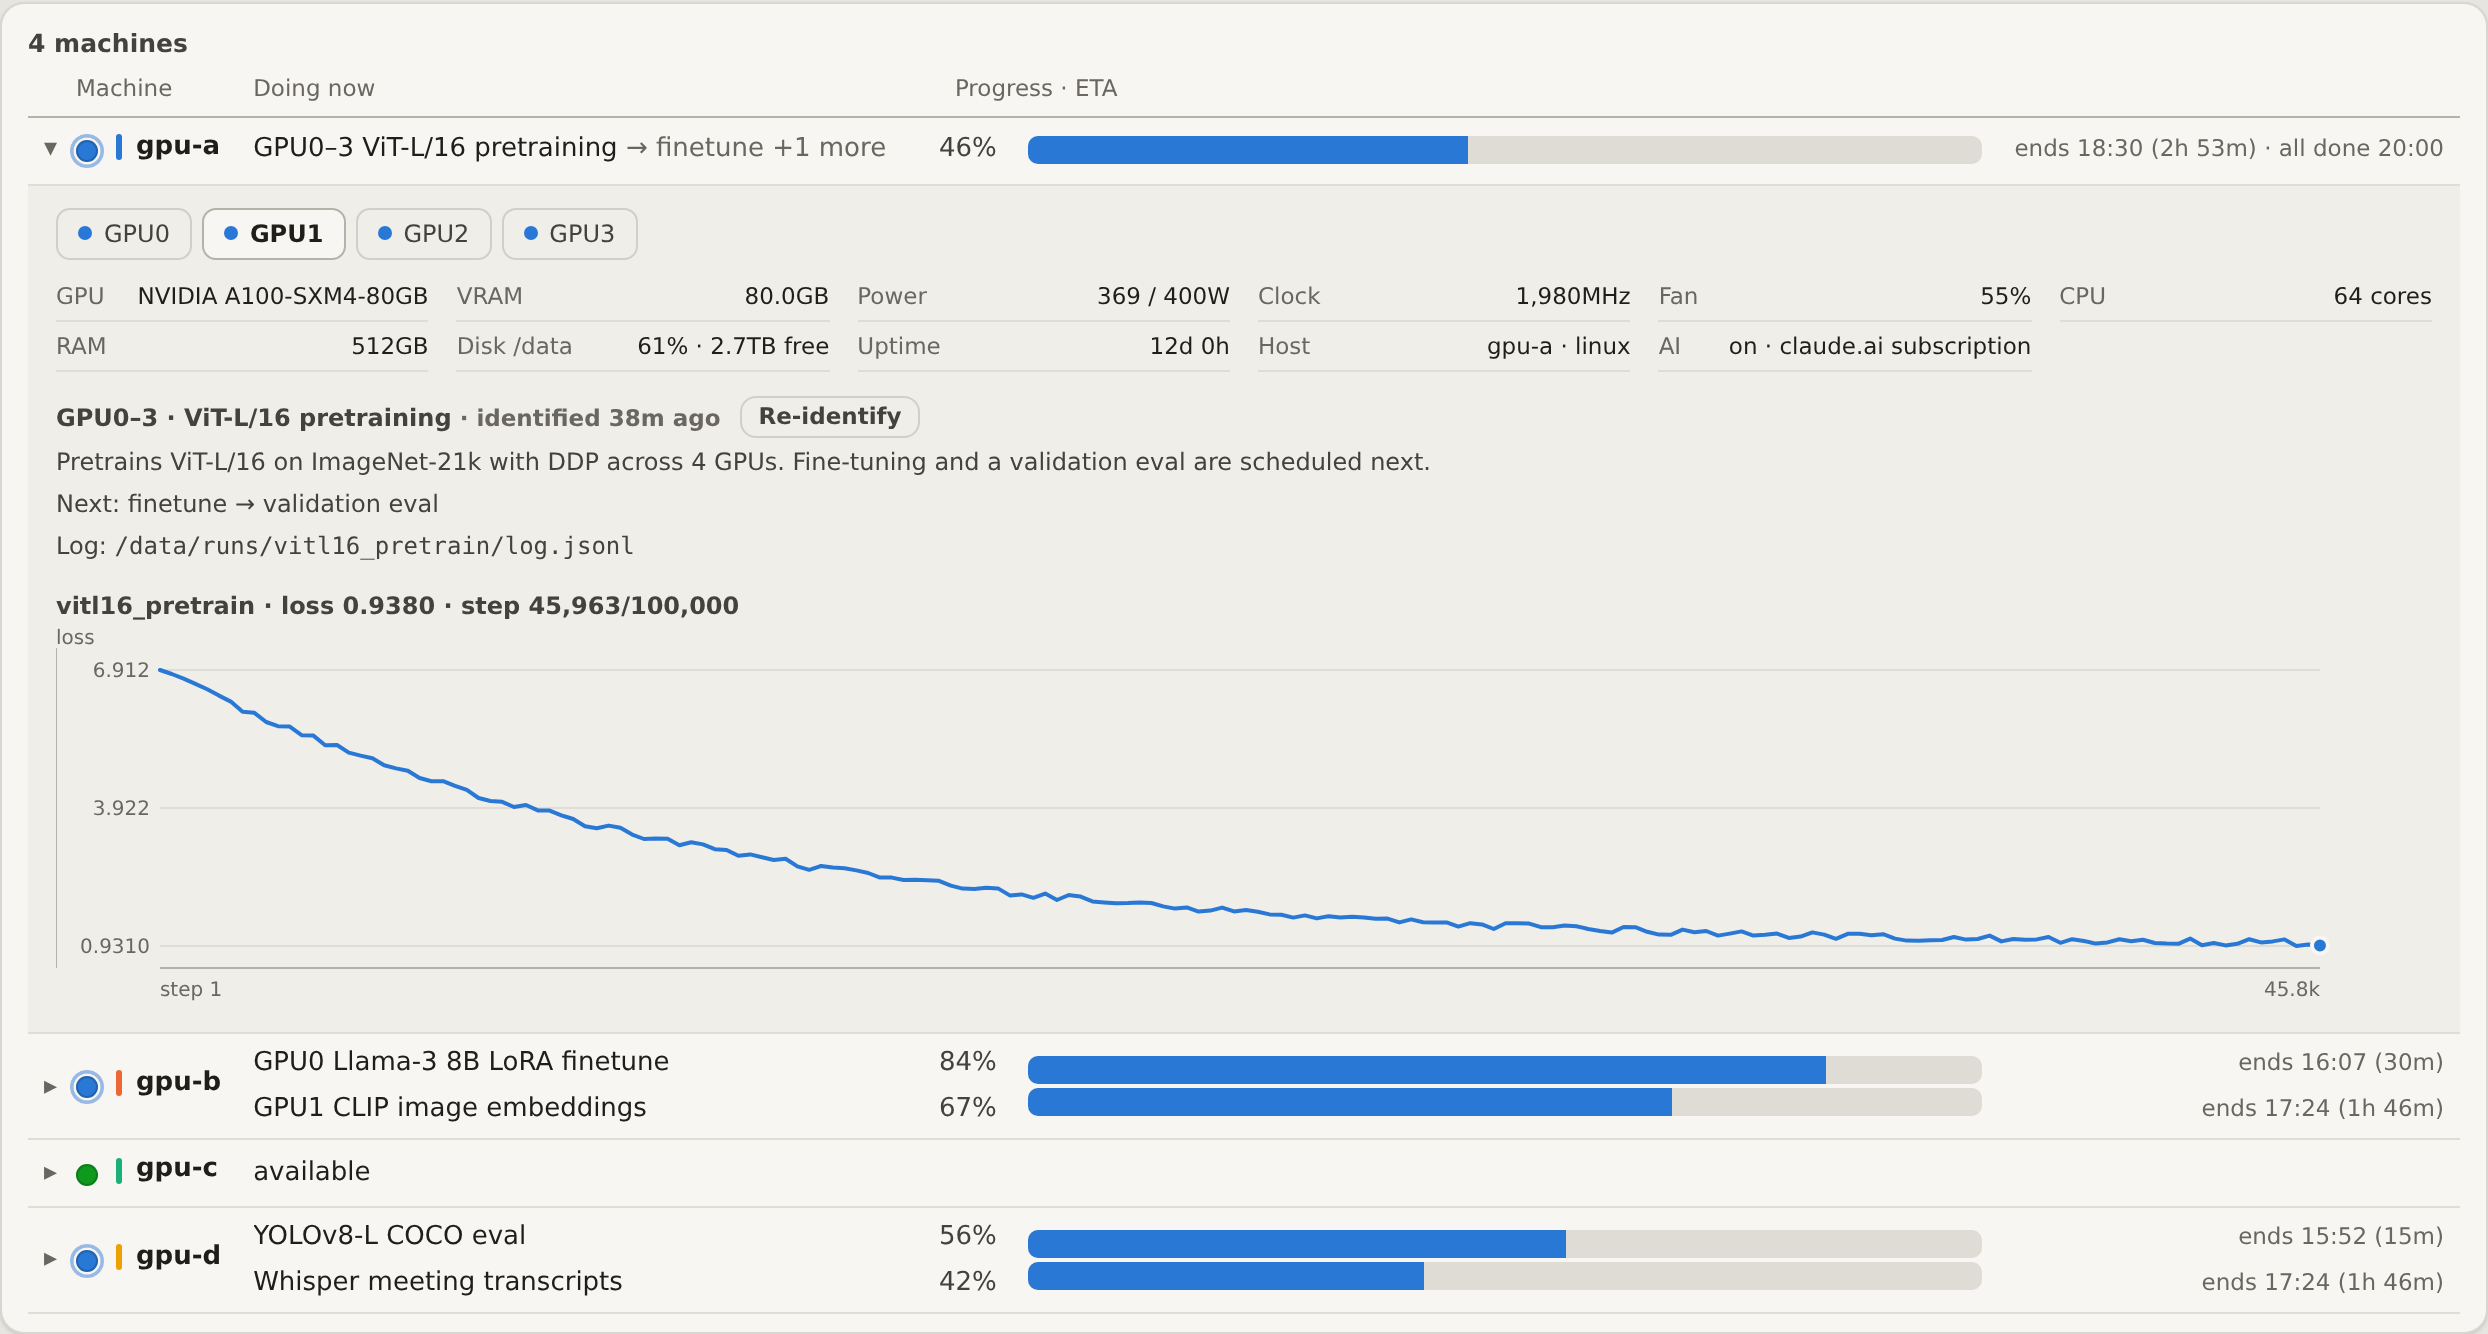
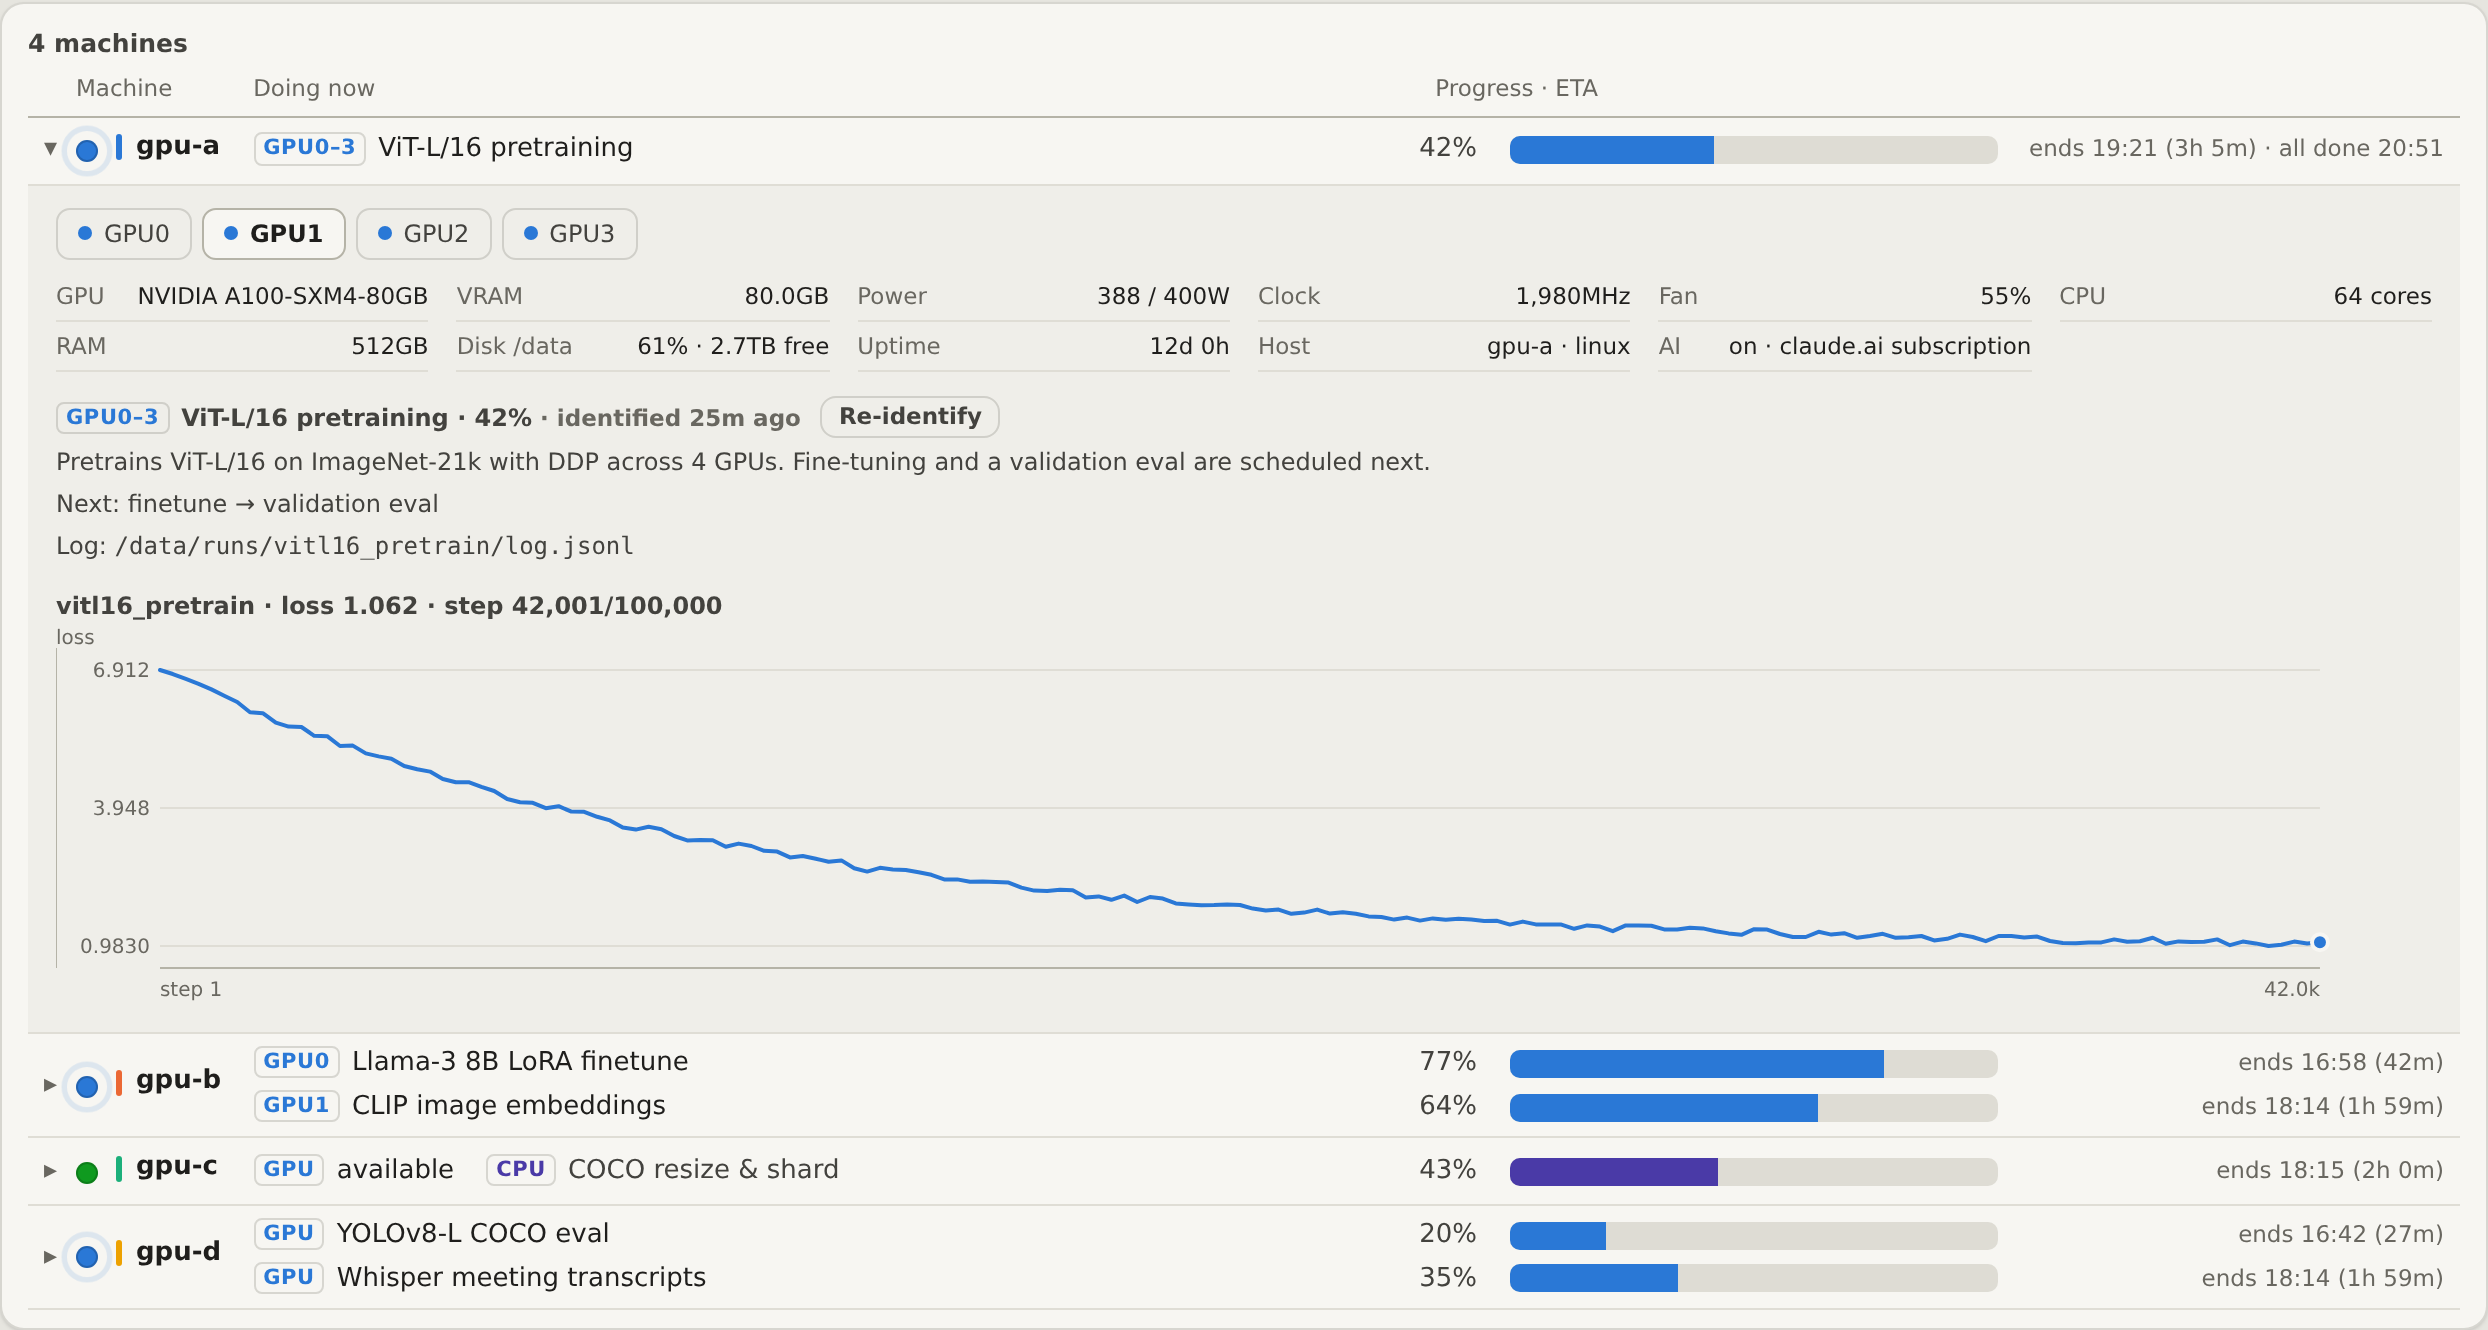
README: new screenshots and demo GIF; dark theme instead of the phone shot
Re-shot with the current dashboard (GPU/CPU tags, purple CPU bar, shorter
progress bar, a CPU job on the demo machine). The phone screenshot is
replaced by the dark theme on a wide screen, side by side with the light
one.

diff --git a/README.ko.md b/README.ko.md
@@ -44,8 +44,8 @@ claude auth login
 
 <table>
   <tr>
-    <td width="70%"><img src="docs/ko/light.png" alt="밝은 테마"></td>
-    <td><img src="docs/ko/mobile.png" alt="폰, 다크 테마"></td>
+    <td width="50%"><img src="docs/ko/light.png" alt="밝은 테마"></td>
+    <td width="50%"><img src="docs/ko/dark.png" alt="다크 테마"></td>
   </tr>
   <tr>
     <td colspan="2"><img src="docs/ko/detail.png" alt="머신 상세: 무슨 작업인지, 다음 작업, loss 곡선"></td>

diff --git a/README.md b/README.md
@@ -44,8 +44,8 @@ claude auth login
 
 <table>
   <tr>
-    <td width="70%"><img src="docs/en/light.png" alt="Light theme"></td>
-    <td><img src="docs/en/mobile.png" alt="Phone, dark theme"></td>
+    <td width="50%"><img src="docs/en/light.png" alt="Light theme"></td>
+    <td width="50%"><img src="docs/en/dark.png" alt="Dark theme"></td>
   </tr>
   <tr>
     <td colspan="2"><img src="docs/en/detail.png" alt="Machine detail: what the job is, what runs next, loss curve"></td>
